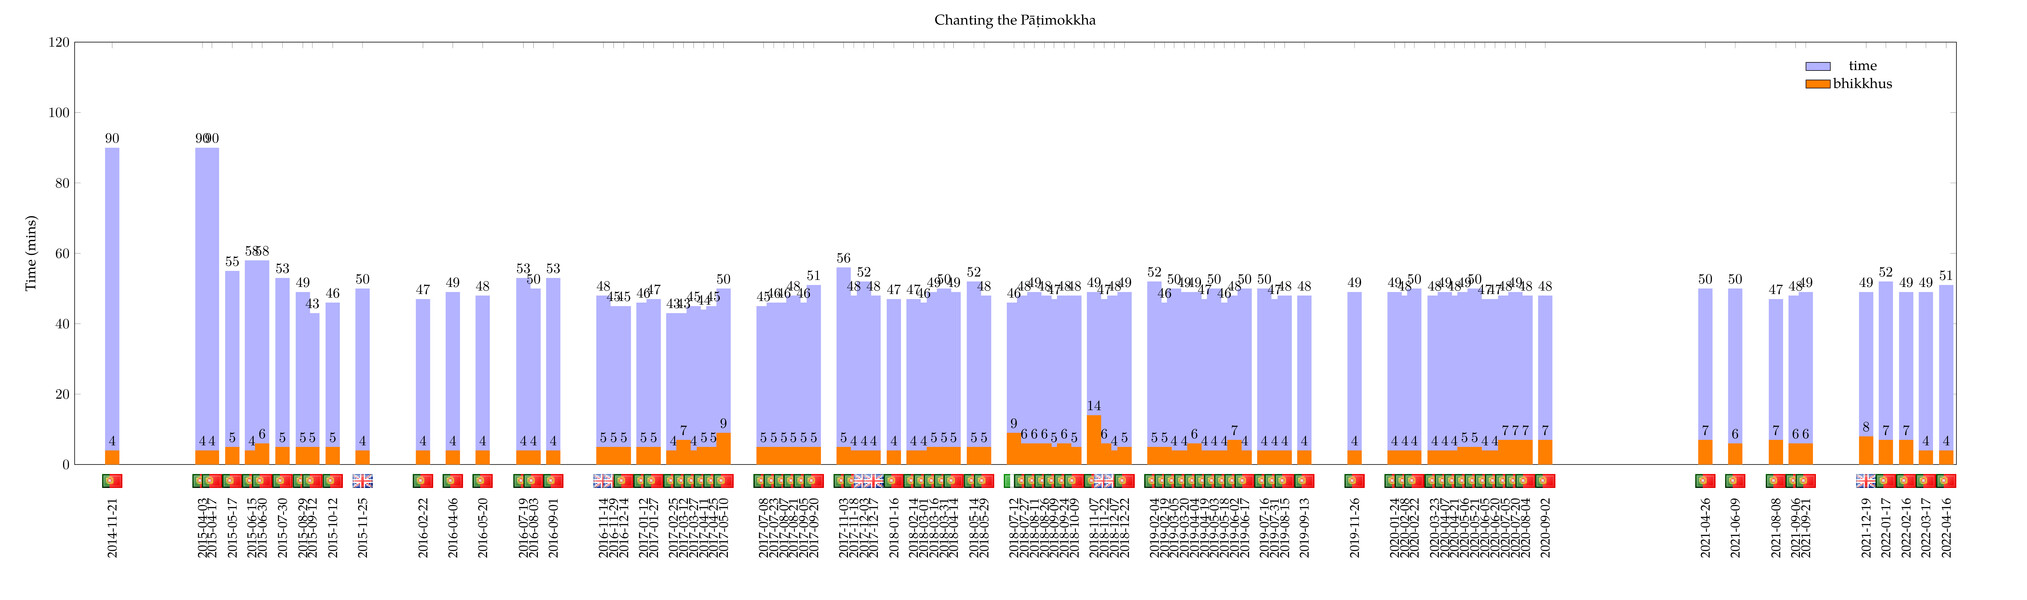
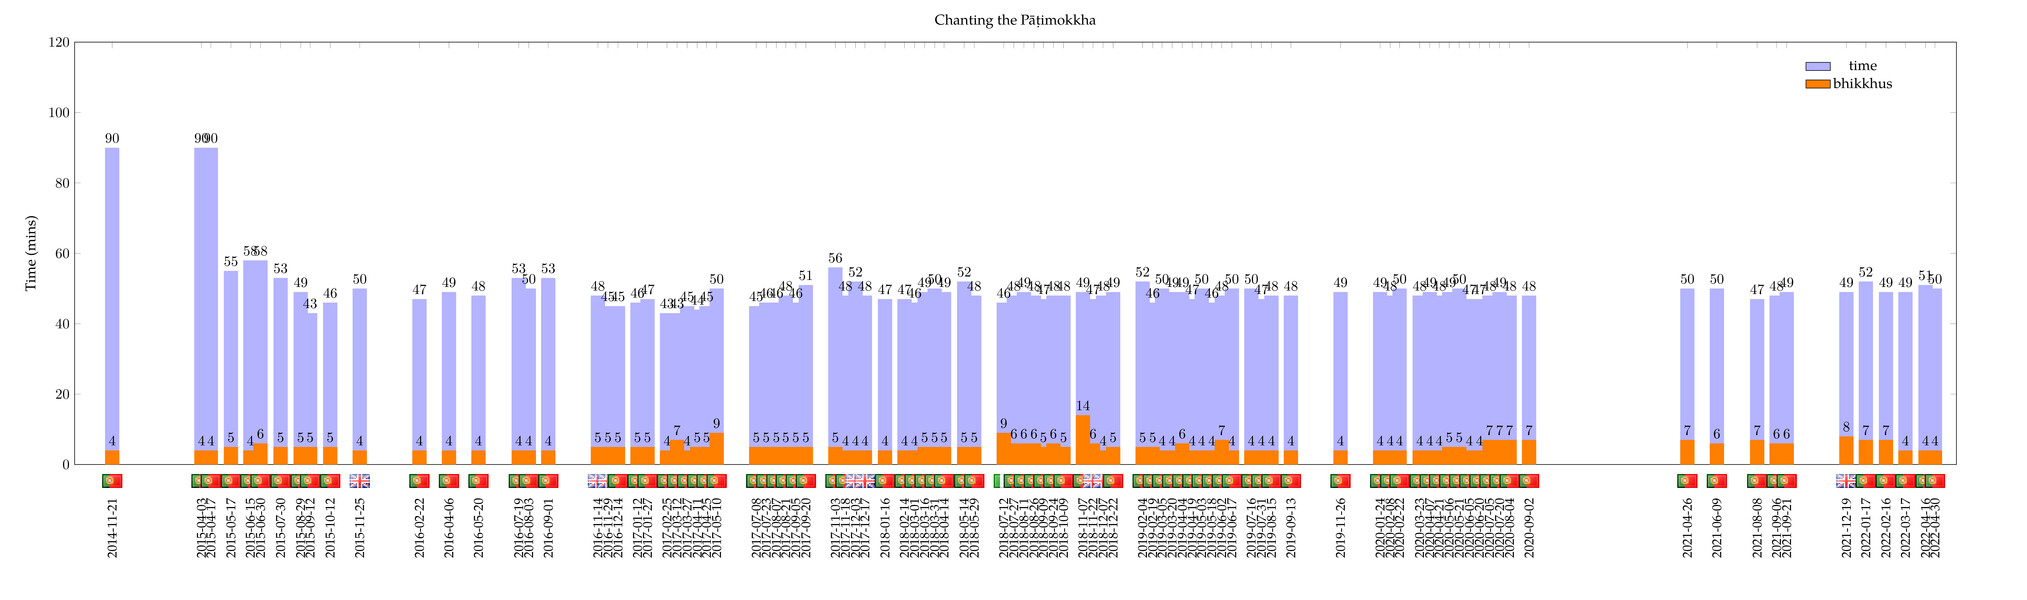
upd

Changed region(s): [[0.0932, 0.42, 0.777, 0.93], [0.8081, 0.45, 0.9635, 0.93], [0.0932, 0.21, 0.1243, 0.24]]

diff --git a/src/patimokkha-chanting-chart.tex b/src/patimokkha-chanting-chart.tex
@@ -58,7 +58,7 @@
     ylabel=Time (mins),
     xtick=data,
     xmin=2014-11-20,
-    xmax=2022-05-01,
+    xmax=2022-06-01,
     enlarge x limits={rel=0.02,lower},
     xticklabel style={yshift=-20pt,rotate=90,anchor=east,font=\small},
     xticklabel={\year-\month-\day},
@@ -183,6 +183,7 @@
   \node [anchor=south, yshift=-20pt] at (axis cs:2022-02-16,0) {\includegraphics[width=5mm]{pt}};
   \node [anchor=south, yshift=-20pt] at (axis cs:2022-03-17,0) {\includegraphics[width=5mm]{pt}};
   \node [anchor=south, yshift=-20pt] at (axis cs:2022-04-16,0) {\includegraphics[width=5mm]{pt}};
+  \node [anchor=south, yshift=-20pt] at (axis cs:2022-04-30,0) {\includegraphics[width=5mm]{pt}};
 
 \end{axis}
 \end{tikzpicture}
